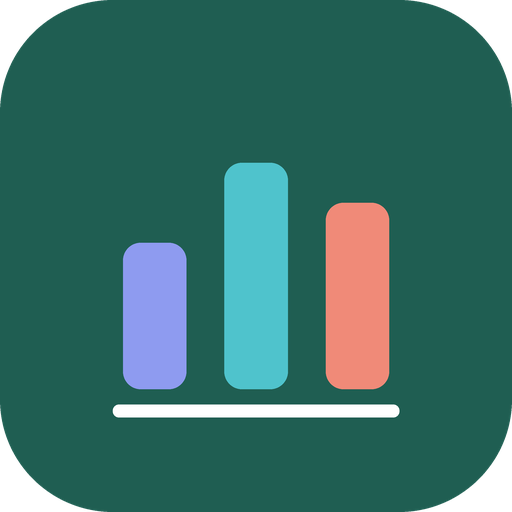
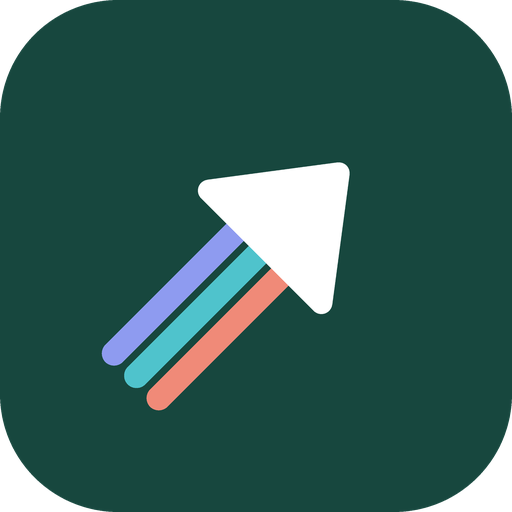
الاسم الجديد: سهم + اللوجو
Claude-Session: https://claude.ai/code/session_018T9xzNYv5RHhPpfZtDFcz6

diff --git a/index.html b/index.html
@@ -10,8 +10,8 @@
 <link rel="apple-touch-icon" href="apple-touch-icon.png">
 <meta name="mobile-web-app-capable" content="yes">
 <meta name="apple-mobile-web-app-capable" content="yes">
-<meta name="apple-mobile-web-app-title" content="دفتر الشركاء">
-<title>دفتر الشركاء</title>
+<meta name="apple-mobile-web-app-title" content="سهم">
+<title>سهم</title>
 <link rel="preconnect" href="https://fonts.googleapis.com">
 <link href="https://fonts.googleapis.com/css2?family=IBM+Plex+Sans+Arabic:wght@400;500;600;700&family=Reem+Kufi:wght@500;700&display=swap" rel="stylesheet">
 <style>
@@ -45,7 +45,10 @@ button:focus-visible,input:focus-visible,select:focus-visible{outline:2px solid 
 
 .app{max-width:760px;margin:0 auto;padding-inline:16px;padding-block:0 110px}
 header.top{position:sticky;top:env(safe-area-inset-top,0px);z-index:5;background:var(--bg);padding-block:14px 10px;display:flex;align-items:center;justify-content:space-between;gap:12px;border-bottom:1px solid var(--line)}
-.brand h1{font-family:var(--f-display);font-weight:700;font-size:22px;margin:0;line-height:1.2}
+.brand{display:flex;align-items:center;gap:10px}
+.logo{width:38px;height:38px;flex-shrink:0;display:block}
+.logo.lg{width:56px;height:56px}
+.brand h1{font-family:var(--f-display);font-weight:700;font-size:24px;margin:0;line-height:1.2}
 .brand p{margin:0;color:var(--muted);font-size:12.5px}
 .status{font-size:12px;color:var(--muted);display:flex;align-items:center;gap:6px;white-space:nowrap}
 .dot{width:8px;height:8px;border-radius:50%;background:var(--warn)}
@@ -158,7 +161,7 @@ label.fl input,label.fl select{font:inherit;font-size:16px;color:var(--ink);back
 <body>
 <section class="auth" id="auth" hidden>
   <form id="authForm" novalidate>
-    <div><h1>دفتر الشركاء</h1><p>نوفينيرا · سنترا · نبض</p></div>
+    <div style="display:flex;align-items:center;gap:12px"><svg class="logo lg" viewBox="0 0 100 100" aria-hidden="true"><rect width="100" height="100" rx="23" fill="#17473E"/><g transform="translate(-4.3 4.3) rotate(-45 50 50) translate(2.5 2.5) scale(.95)"><rect x="19" y="41" width="42" height="5" rx="2.5" fill="#8E9BF0"/><rect x="19" y="47.5" width="42" height="5" rx="2.5" fill="#4FC3CC"/><rect x="19" y="54" width="42" height="5" rx="2.5" fill="#F08A78"/><polygon points="59.5,32.5 81,50 59.5,67.5" fill="#fff" stroke="#fff" stroke-width="4.4" stroke-linejoin="round"/></g></svg><div><h1>سهم</h1><p>حسابات نوفينيرا · سنترا · نبض</p></div></div>
     <label class="fl">الإيميل<input id="a_email" type="email" autocomplete="email" required></label>
     <label class="fl">كلمة السر<input id="a_pass" type="password" autocomplete="current-password" required></label>
     <div class="acts" style="margin-top:0"><button type="submit" class="btn pri grow" id="loginBtn">دخول</button><button type="submit" class="btn" id="signupBtn">أول مرة؟ اعمل حساب</button></div>
@@ -168,10 +171,10 @@ label.fl input,label.fl select{font:inherit;font-size:16px;color:var(--ink);back
 <div id="appShell" hidden>
 <div class="app">
   <header class="top">
-    <div class="brand">
-      <h1>دفتر الشركاء</h1>
+    <div class="brand"><svg class="logo" viewBox="0 0 100 100" aria-hidden="true"><rect width="100" height="100" rx="23" fill="#17473E"/><g transform="translate(-4.3 4.3) rotate(-45 50 50) translate(2.5 2.5) scale(.95)"><rect x="19" y="41" width="42" height="5" rx="2.5" fill="#8E9BF0"/><rect x="19" y="47.5" width="42" height="5" rx="2.5" fill="#4FC3CC"/><rect x="19" y="54" width="42" height="5" rx="2.5" fill="#F08A78"/><polygon points="59.5,32.5 81,50 59.5,67.5" fill="#fff" stroke="#fff" stroke-width="4.4" stroke-linejoin="round"/></g></svg><div>
+      <h1>سهم</h1>
       <p>نوفينيرا · سنترا · نبض</p>
-    </div>
+    </div></div>
     <div class="status" id="status"><span class="dot"></span><span>جاري التحميل</span></div>
   </header>
 

diff --git a/sw.js b/sw.js
@@ -1,5 +1,5 @@
 // يخزن واجهة التطبيق عشان يفتح بسرعة؛ البيانات نفسها دايماً من Supabase
-const CACHE = 'daftar-v1';
+const CACHE = 'sahm-v2';
 const SHELL = ['./', './index.html', './manifest.webmanifest', './icon-192.png', './icon-512.png'];
 self.addEventListener('install', e => { e.waitUntil(caches.open(CACHE).then(c => c.addAll(SHELL))); self.skipWaiting(); });
 self.addEventListener('activate', e => {

diff --git a/README.md b/README.md
@@ -1,4 +1,4 @@
-# دفتر الشركاء
+# سهم
 
 تطبيق حسابات نوفينيرا وسنترا ونبض: المدرسين، الدخل، المصروفات والسلف، وأرصدة الشركاء.
 
